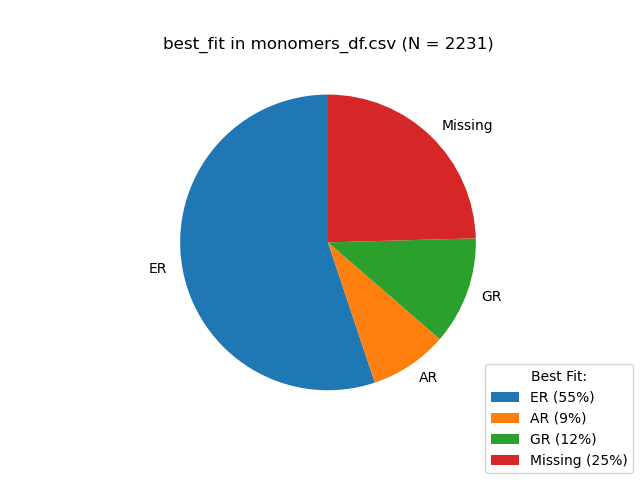
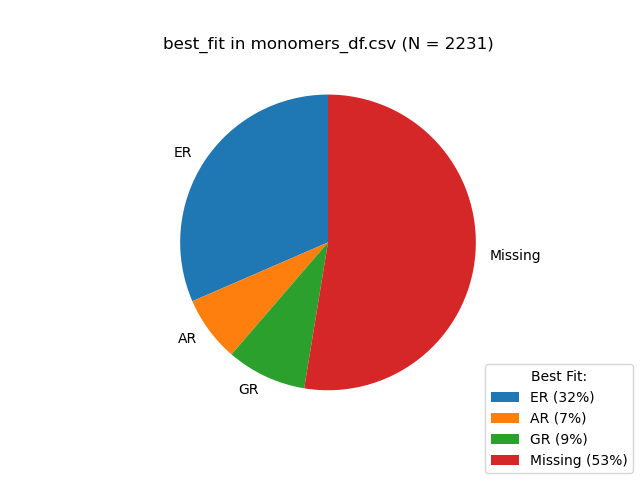
Applied min simialrity to 90%/90% coverage

diff --git a/scripts/main.py b/scripts/main.py
@@ -40,6 +40,7 @@ def main(PROCESS_ALL = False,
          FACES_BY_COM = True,
          MINIMUM_SCORE = 0,
          COMPARE = True,
+         SPLIT_FACES_ANYWAY = False,
          ):
 
 
@@ -123,7 +124,7 @@ def main(PROCESS_ALL = False,
     ###### DIMER ANALYSIS ##############################################################################################
     tprint("DIMER ANALYSIS")
 
-    if not SKIP_DIMERS or PROCESS_ALL:
+    if not SKIP_DIMERS or PROCESS_ALL or (SPLIT_FACES_ANYWAY and FORCE_SPLIT):
         #print(list(vars.clustering["contacts"].keys()))
         progress = ProgressBar(len(molecule_list))
         from surface import build_contact_arrays
@@ -174,7 +175,12 @@ def main(PROCESS_ALL = False,
         from clustering import compare_contacts, get_clusters, cluster, split_by_faces, cluster_by_face
         for reference in vars.references:
             sprint(reference.name)
-            if reference.name == "GR" and COMPARE:
+            if reference.name != "GR" and ONLY_GR:
+                reference.pickle()
+                continue
+            if SPLIT_FACES or SPLIT_FACES_ANYWAY:
+                split_by_faces(reference, force=FORCE_SPLIT, by_com= FACES_BY_COM)
+            if reference.name == "GR" and (COMPARE or PROCESS_ALL or FORCE_COMPARE):
                 reference.classified_df = compare_contacts(reference, force = FORCE_COMPARE or PROCESS_ALL)
                 from clustering import add_info_to_classified
                 #save_dfs(general=False, clustering=True)
@@ -182,11 +188,8 @@ def main(PROCESS_ALL = False,
                 from visualisation import classified_chart
                 classified_chart()
                 #reference.clusters_eva = get_clusters(reference.classified_df, column = "Best_Match", ref_name=reference.name)
-            if reference.name != "GR" and ONLY_GR:
-                reference.pickle()
-                continue
-            if SPLIT_FACES:
-                split_by_faces(reference, force=FORCE_SPLIT, by_com= FACES_BY_COM)
+
+
             cluster_by_face(reference, FORCE_ALL= FORCE_CLUSTERING or PROCESS_ALL, minimum_score=MINIMUM_SCORE,
                             n_clusters=N_CLUSTERS, pca=CLUSTER_BY_PCA, pca_dimensions = DIMENSIONS_PCA,
                             splitted=SPLIT_FACES)
@@ -253,11 +256,12 @@ if __name__ == "__main__":
 
 
          # Compare GR clustering to EVA clustering
-         COMPARE = False,
+         COMPARE = True,
          FORCE_COMPARE= False,
 
          # Split by faces based on Eva
          SPLIT_FACES=False,
+         SPLIT_FACES_ANYWAY = False,
          FORCE_SPLIT=True,
 
          # Clustering, from SM to plotting

diff --git a/scripts/clustering.py b/scripts/clustering.py
@@ -697,17 +697,18 @@ def add_clusters_to_classified(reference, pca=True, splitted = True):
                 clustered_folder = root["clustered_pcas"]
         else:
             clustered_folder = root["clustered_{}".format(reference.name)]
-
+        print(classified)
         for path in os.listdir(clustered_folder):
             if "centres" not in path and "clustered" not in path:
                 df = pd.read_csv(os.path.join(clustered_folder, path))
                 #print(df)
                 for row in df.itertuples():
-                    if splitted:
-                        classified.loc[row.id, "face_group"]= path.split(".")[0]
-                        classified.loc[row.id, "cluster"]= row.cluster
-                    else:
-                        classified.loc[row.id, "global_cluster"]= row.cluster
+                    if row.id in classified.index:
+                        if splitted:
+                            classified.loc[row.id, "face_group"]= path.split(".")[0]
+                            classified.loc[row.id, "cluster"]= row.cluster
+                        else:
+                            classified.loc[row.id, "global_cluster"]= row.cluster
         print(classified)
     vars.clustering["classified"][reference.name] = classified
     reference.classified_df = classified
@@ -961,19 +962,23 @@ def cluster_by_face(reference, FORCE_ALL=False, DIMENSIONS=3, n_clusters = 4, mi
 
         sprint(file)
         contacts_path = os.path.join(root[subfolder_name.format("contacts")], file)
+        print(contacts_path)
         if minimum_score > 0:
             contacts_df = pd.read_csv(contacts_path)
             original_len = len(contacts_df)
             classified_df = pd.read_csv(os.path.join(root.classified, "{}.csv".format(reference.name)))
+            print(classified_df)
             cols = list(contacts_df.columns)
             for col in cols:
                 if col in ["ResNum", "ResName"]:
                     continue
-                #print(classified_df)
-                #print(classified_df[classified_df["ID"] == col])
+                print(col)
+                print(classified_df[classified_df["ID"] == col])
                 class_row = classified_df[classified_df["ID"] == col]
-                #print(class_row)
-                assert len(class_row) == 1
+                print(class_row)
+                if len(class_row) < 1 :
+                    cols.remove(col)
+                    continue
                 class_row = class_row.iloc[0]
                 #print(class_row.Similarity)
                 if class_row.Similarity < minimum_score:

diff --git a/scripts/visualisation.py b/scripts/visualisation.py
@@ -349,9 +349,9 @@ if __name__ == "__main__":
             print("Subset:", filtered)
 
         if pca:
-            faces = os.listdir(root.pca_figs_GR)
+            faces = os.listdir(root.clustered_pcas_GR)
             if global_pca:
-                faces = [face for face in os.listdir(root.pca_figs) if "figs" not in face]
+                faces = [face for face in os.listdir(root.clustered_pcas) if "clustered" not in face]
             print("PCA clustering")
             print(faces)
         else:
@@ -378,8 +378,12 @@ if __name__ == "__main__":
                     break
                 except:
                     pass
-        else:
+        elif len(faces) == 1:
             face = faces[0].split(".")[0]
+        else:
+            print(faces)
+            print("No clustered dataframes found")
+            print(faces[0])
         sprint("Selected interaction: {}".format(face))
         if pca:
             if global_pca:
